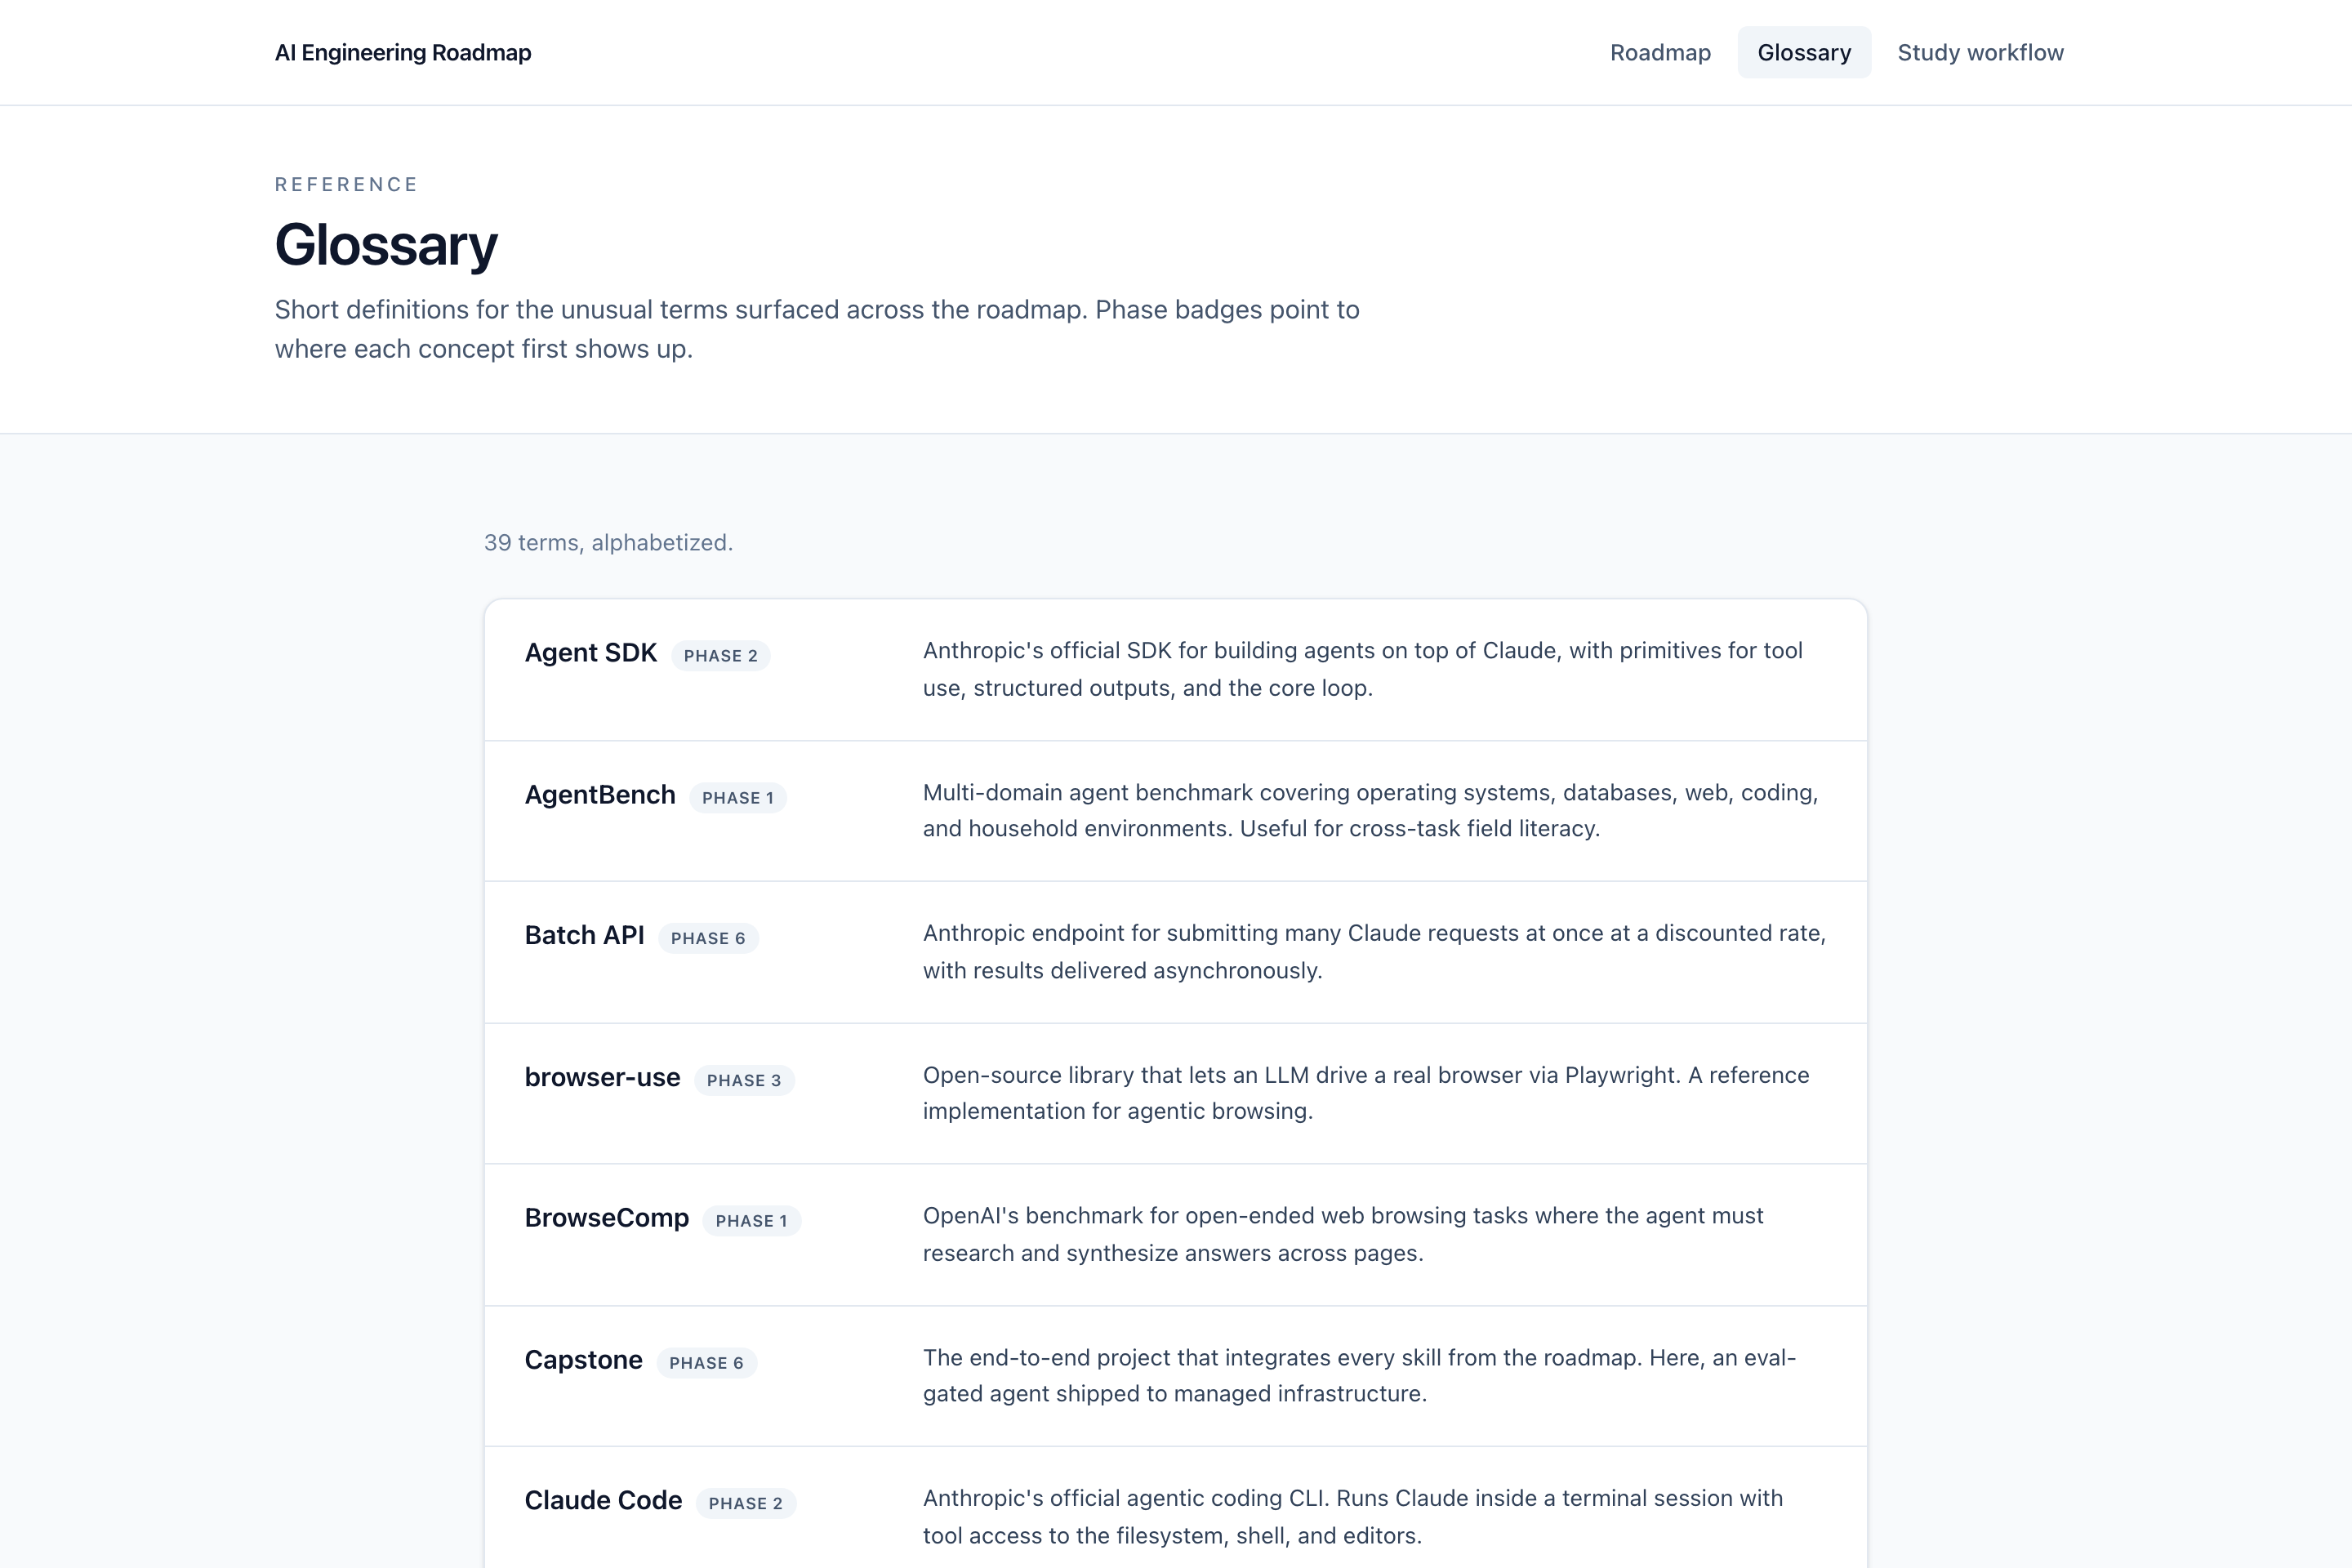
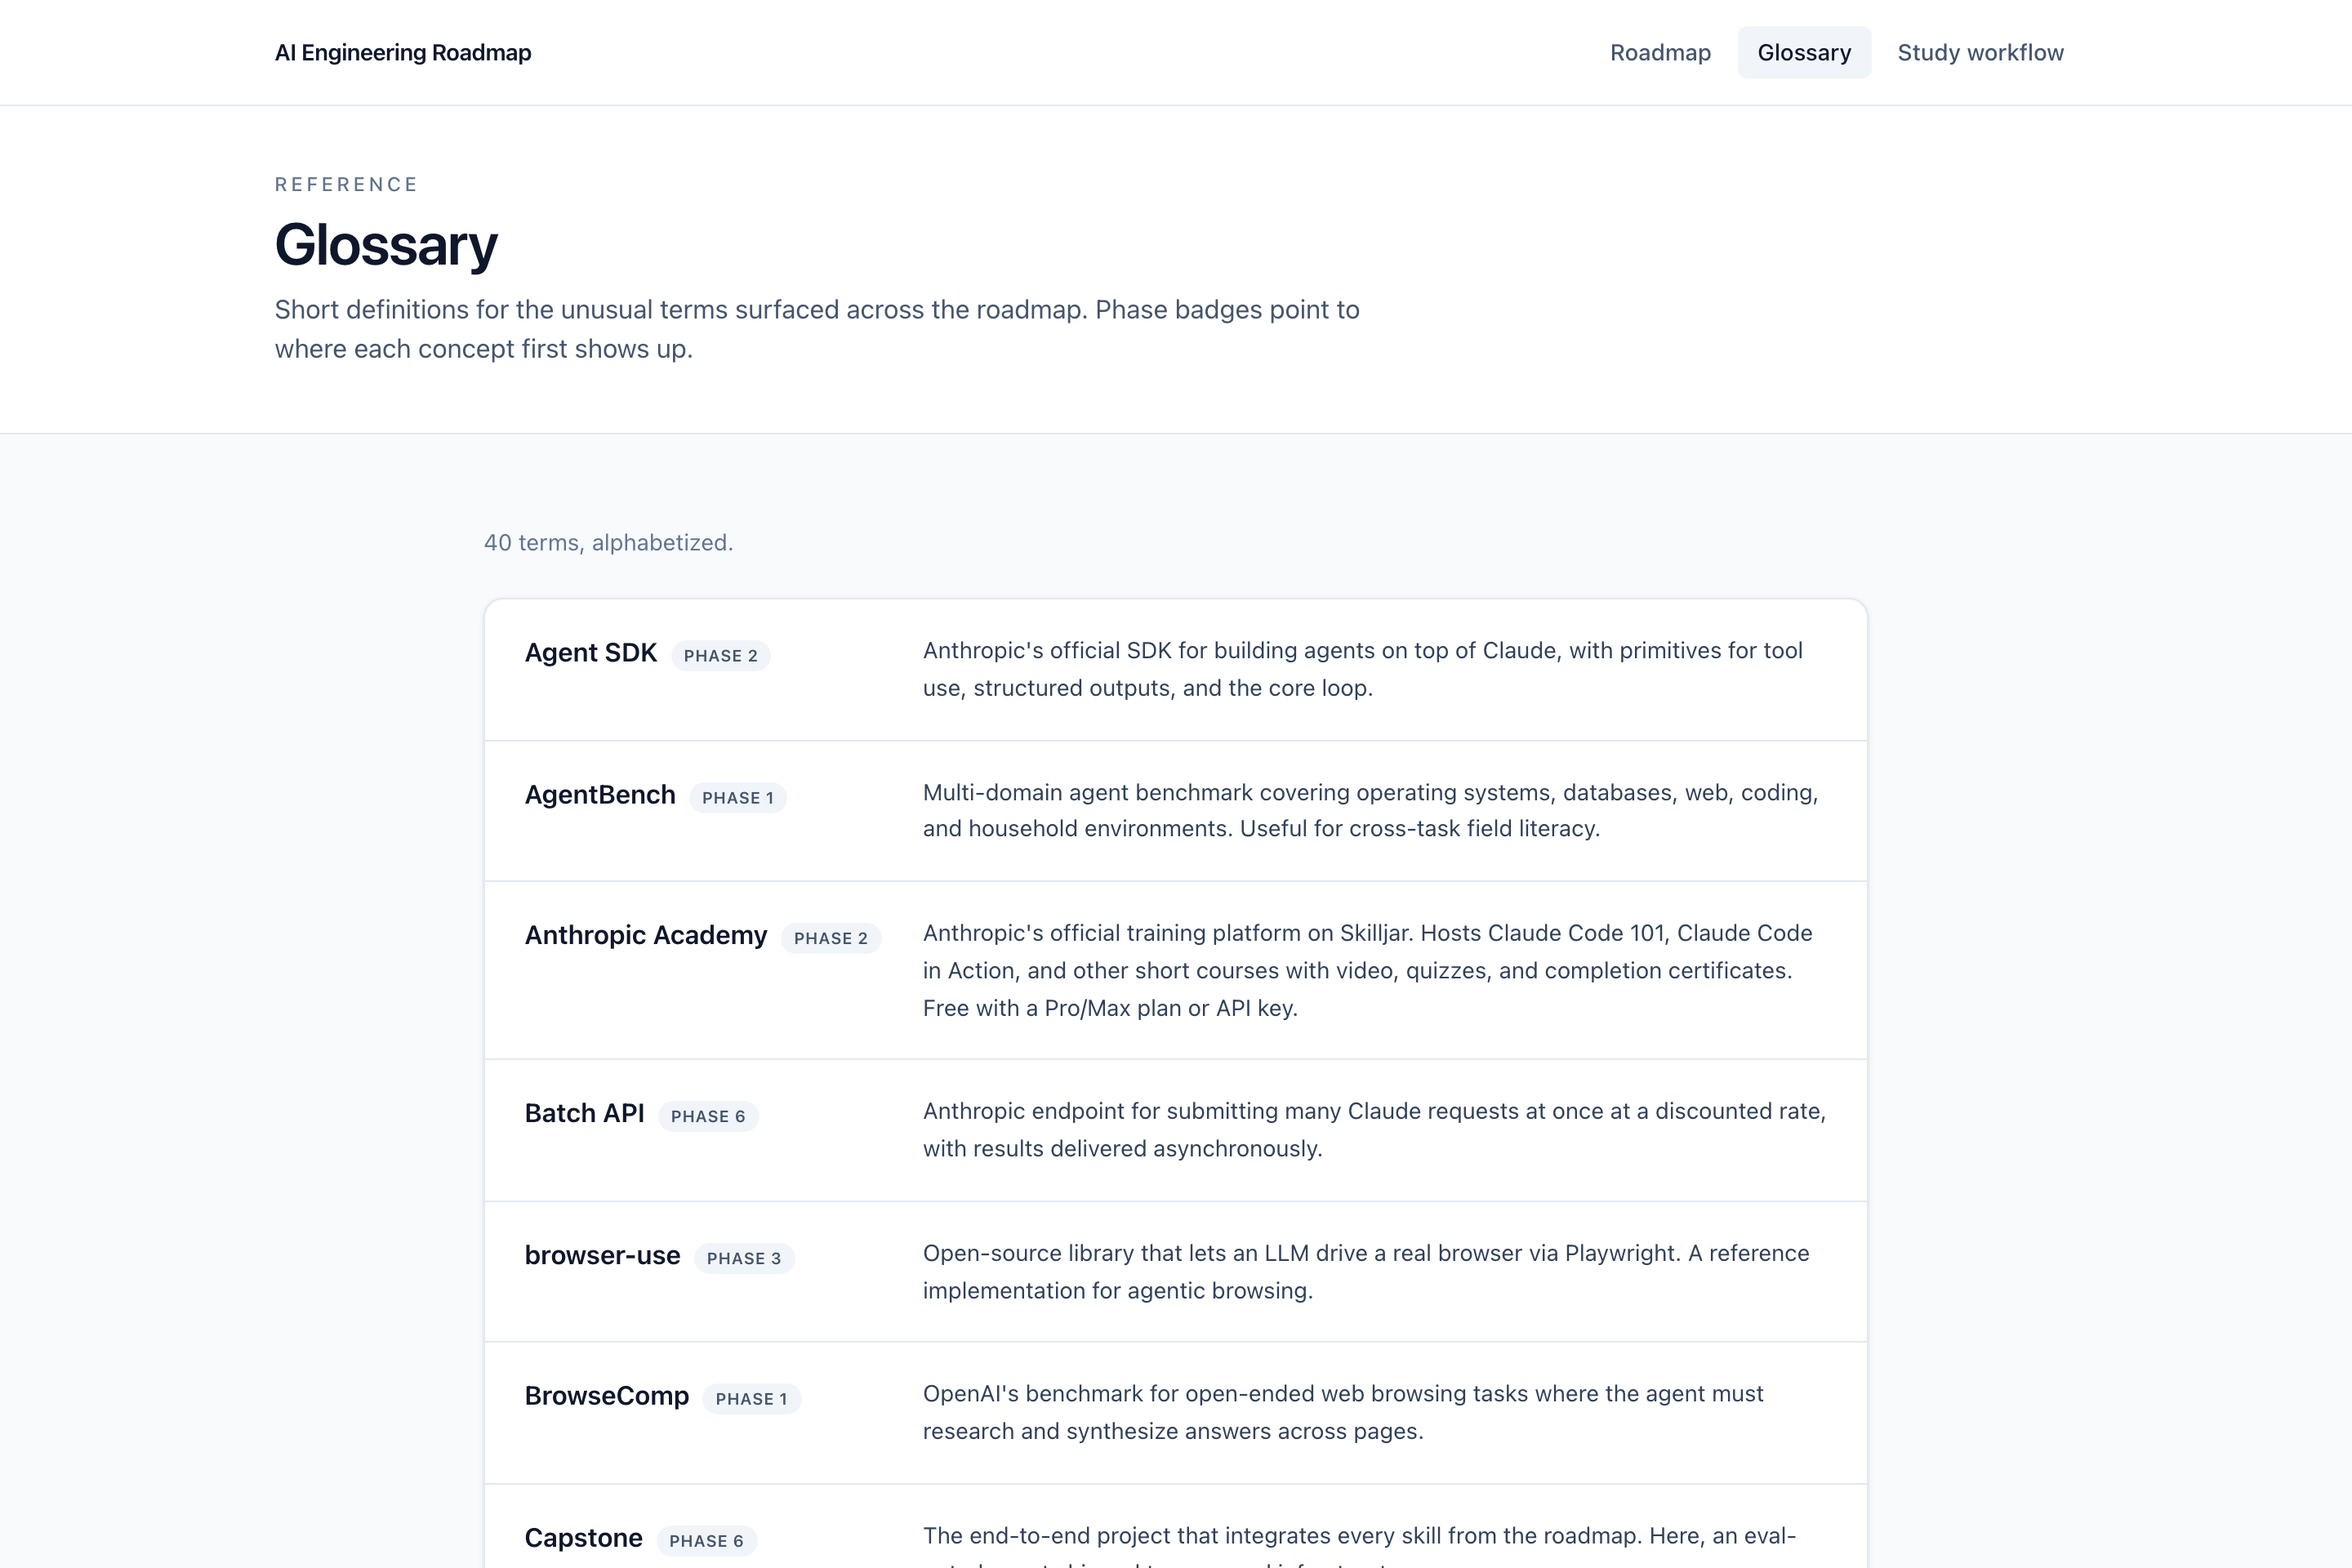
Final audit pass: kill cartographer-era docs, sync screenshots, add Anthropic Academy
- Rewrite CLAUDE.md to describe the actual current state (cards UI,
  hash router, three pages, Tailwind 4) instead of the dead cartographer
  build plan with Remotion cinematics, fog of war, and parchment.
- Delete plans/build-plan.md and the empty plans/ directory.
- Add an Anthropic Academy entry to the glossary (Skilljar, hosts the
  Claude Code 101 and Claude Code in Action courses), bringing the
  glossary to 40 terms.
- Fix Study workflow page: "one markdown file per resource" was stale,
  it is now one folder per resource. cd example switched to the phase
  folder as the typical session root, matching the actual workflow.
- Refresh screenshots so they reflect the post-link-audit titles.

diff --git a/src/pages/StudyWorkflow.tsx b/src/pages/StudyWorkflow.tsx
@@ -34,7 +34,7 @@ export function StudyWorkflowPage() {
               <Tile
                 label="Project 15"
                 title="Study scratchpad"
-                sub="Notes. One markdown file per resource. Lives on your machine."
+                sub="Notes. One folder per resource. Lives on your machine."
               />
             </div>
           </section>
@@ -44,17 +44,18 @@ export function StudyWorkflowPage() {
               Where to open Claude Code sessions
             </h2>
             <p className="mt-3 text-base leading-relaxed text-slate-700">
-              Always open Claude Code from inside the Project 15 directory, not
-              this one. Project 14 is the artifact; Project 15 is the
-              workspace.
+              Always open Claude Code inside Project 15, not Project 14.
+              Project 14 is the tracker; Project 15 is the workspace. The
+              typical entrypoint is the phase folder for whatever you are
+              working on:
             </p>
             <pre className="mt-4 overflow-x-auto rounded-lg bg-slate-900 px-4 py-3 text-sm text-slate-100">
-              <code>cd "Projects/Project 15 - AI Engineering Study/"{"\n"}claude</code>
+              <code>cd "Projects/Project 15 - AI Engineering Study/notes/phase-2-mcp/"{"\n"}claude</code>
             </pre>
             <p className="mt-3 text-base leading-relaxed text-slate-700">
-              That way every session has the study notes as its working
-              directory and Claude can read, edit, and create markdown files
-              alongside whatever code experiment you are running.
+              That way the session has the phase as its working directory and
+              every resource subfolder is one
+              <code className="rounded bg-slate-100 px-1.5 py-0.5 text-[0.9em] text-slate-800"> cd</code> away.
             </p>
           </section>
 

diff --git a/src/data/glossary.ts b/src/data/glossary.ts
@@ -16,6 +16,11 @@ export const glossary: GlossaryEntry[] = [
     def: "Multi-domain agent benchmark covering operating systems, databases, web, coding, and household environments. Useful for cross-task field literacy.",
   },
   {
+    term: "Anthropic Academy",
+    phase: 2,
+    def: "Anthropic's official training platform on Skilljar. Hosts Claude Code 101, Claude Code in Action, and other short courses with video, quizzes, and completion certificates. Free with a Pro/Max plan or API key.",
+  },
+  {
     term: "Batch API",
     phase: 6,
     def: "Anthropic endpoint for submitting many Claude requests at once at a discounted rate, with results delivered asynchronously.",

diff --git a/CLAUDE.md b/CLAUDE.md
@@ -2,68 +2,56 @@
 
 ## What this is
 
-A personal, hosted, interactive learning roadmap visualized as an illustrated cartographer's map. Six phases of curated AI agent engineering material, each phase a region on the map, each resource a checkpoint. Click a checkpoint to mark it complete. Progress persists in localStorage. Cinematic Remotion sequences play at phase completion and at the capstone.
+A personal, hosted study tracker for AI agent engineering. Seven phases of curated resources, rendered as a clean cards UI with a progress bar and checkboxes. Progress persists in localStorage. No backend.
 
-**Brand:** AI Engineering Roadmap. **Repo target:** `github.com/Mihailo2501/ai-agent-roadmap` (or similar). **License:** MIT.
+The site has three pages, navigated via hash routes:
 
-**Distribution:** hosted via GitHub Pages from this repo. This is a personal artifact, not a distributed course. The "no hosting" rule from Project 11 (AI Agent Engineering) does not apply here.
+- **Roadmap** (`#/`): the tracker. Seven phase sections, each a grid of resource cards.
+- **Glossary** (`#/glossary`): alphabetized definitions for the unusual terms surfaced across the roadmap, with a phase badge per term.
+- **Study workflow** (`#/study`): documents how the companion scratchpad (Project 15) is organized and how to name Claude Code sessions while working through resources.
+
+**Repo:** `github.com/Mihailo2501/ai-engineering-roadmap`. **License:** MIT. **Live:** [https://mihailo2501.github.io/ai-engineering-roadmap/](https://mihailo2501.github.io/ai-engineering-roadmap/).
+
+This is a personal artifact, not a distributed course.
 
 ## Locked decisions
 
 Do not re-litigate without explicit ask:
 
-- **Tech stack:** Vite + React 19 + TypeScript + MDX + Tailwind 4 + Framer Motion + Remotion. Same React + MDX skills as Project 11, different visual language.
-- **Design:** cartographer's roadmap. Illustrated parchment map, dark ink line illustration, sepia background, gold accents for completed items, faded red for incomplete. NOT the Clay-inspired aesthetic from Project 11. This artifact is visually distinct from the course on purpose.
-- **Typography:** one display serif for region names (Cinzel or similar old-world cartography flavor), one clean modern serif (Source Serif or Lora) for body and tooltips. Strict two-font rule.
-- **Color palette:** off-white parchment background, ink black for line work, faded red for incomplete checkpoints, bright gold for completed stamps and walked paths, muted teal for water features.
-- **Illustrations:** generated via GPT image 2 through Codex, consistent ink-line style across all six phase regions plus corner marginalia.
-- **Checkpoint tracking:** localStorage per resource, no backend. Same pattern as Project 11 progress strip.
-- **Cinematics:** three Remotion-rendered MP4 sequences. (1) Hero intro reel, ~12 seconds, plays first visit only, skippable. (2) Phase completion ceremony, ~6 seconds, one per phase, plays when all checkpoints in that phase are checked. (3) Capstone reveal, ~30 seconds, plays when all six phases complete. MP4s committed to the repo under `public/cinematics/` and served directly from GitHub Pages (skip Cloudflare R2 for v1, total MP4 payload should stay under 80MB which is well within GitHub's limits).
-- **Audio:** ambient soundtrack plus interaction SFX (quill scratch, wax seal, stamp, page turn). Sourced from Pixabay, Mixkit, Freesound. Off by default, toggleable, preference persisted.
-- **Animations:** ambient (compass wobble, water waves, smoke, breathing pulse on current marker, sea monster blinks), hover (lift + tilt), click-to-check (stamp drop, ink splatter, path draw), phase completion (banner ripple, ink scatter), scroll (parallax + stagger reveal).
-- **Fog of war:** unrevealed phases shrouded in pale drifting fog. Fog lifts dramatically when previous phase completes.
-- **Voyage log:** toggleable sidebar showing journey as quill-and-ink log entries with timestamps and optional reflection notes per checkpoint.
-- **Stretch features:** cursor as quill with ink trail, hidden secret checkpoint somewhere on the map, hi-res PDF export of completed map, LinkedIn share image generator, Konami code fast-travel mode.
+- **Tech stack:** Vite + React 19 + TypeScript + Tailwind 4. No router library — a tiny custom hash router lives in `src/lib/router.ts`. No MDX, Framer Motion, Remotion, or audio. Earlier cartographer-era build is gone.
+- **Design:** clean cards, neutral slate palette, Inter via system stack, emerald accent for completion. No illustrations, no ambient animations, no sound, no parchment.
+- **State:** one localStorage key, `aer:progress:v1`. Just `{ checked: Record<id, { at: number }> }`. Helpers in `src/lib/progress.ts`.
+- **Routing:** hash-based, manual. Three routes: `/`, `/glossary`, `/study`. Section IDs inside the roadmap (e.g. `#home-port`) intentionally fall back to the roadmap page so deep-link anchors still work.
+- **Deploy:** GitHub Actions builds and pushes to GitHub Pages on every push to `main`. Workflow in `.github/workflows/deploy.yml`. `npm run build` runs `tsc -b`, `vite build`, then `node scripts/inline-css.mjs` to inline the entry CSS into `dist/index.html` for one-fewer render-blocking fetch.
+- **Screenshots and verification:** `npm run screenshots` runs `scripts/capture-screenshots.mjs` against a local preview. `npm run verify` runs `scripts/verify-live.mjs` against the deployed URL and asserts zero console errors.
+- **Lighthouse target:** 100/100/100/100 (Performance, Accessibility, Best Practices, SEO). Held on the last several deploys.
 
-## Content: six phases
+## Content
 
-The roadmap content is locked from prior planning. Each phase has a region name and a set of resource checkpoints.
+Seven phases, defined in `src/data/roadmap.ts`. Each `Resource` has `id`, `title`, optional `url`, `source`, `est`, and optional `note`. Resources without a `url` render as "No link" (intentional for course re-reads and the self-directed capstone).
 
-| Phase | Region name | Theme |
+| Phase | Region | Theme |
 |---|---|---|
-| 0 | Home Port | Re-read AI Agent Engineering course end to end (M01-M25) |
-| 1 | The Library | Canon reading (Building Effective Agents, 12-Factor Agents, learnagenticpatterns.com) plus agent benchmarks for field literacy (SWE-bench, GAIA, τ-bench, AgentBench, BrowseComp) |
-| 2 | Harbor of Protocols | MCP, Anthropic primitives, the programmatic surface (Claude Code 101 + Claude Code in Action, Agent SDK, `claude -p`, Claude Code GitHub Actions, third-party Agent SDK apps), and Anthropic Computer Use |
-| 3 | The Workshop | Open source + fine-tuning (HF Agents Course full + bonuses, Karpathy Zero to Hero) plus open-source browser automation (Stagehand, browser-use) and memory architectures beyond RAG (Mem0, GraphRAG, long-term memory patterns) |
-| 4 | Framework Crossroads | Multi-framework (Ed Donner Complete Agentic AI 6 weeks, LangChain Academy LangGraph TS Quickstart) plus multi-agent coordination at production scale (Cognition Devin posts, Anthropic multi-agent orchestration, Hamel's "when not to multi-agent") |
-| 5 | The Observatory | Evals discipline (Hamel corpus, Forest Friends zine, Lenny's Beyond Vibe Checks, Eugene Yan, Arize Recipe Bot, DLAI eval shorts, Anthropic prompt engineering tutorial) |
-| 6 | The Summit | Cloud capstone (Anthropic Managed Agents docs, Inngest, Cloud Run, Railway pgvector, ship the eval-gated agent) plus production cost engineering (prompt caching, batch API, model routing, target cost-per-session) |
+| 0 | Home Port | Re-read the AI Agent Engineering course end to end (M01–M25) |
+| 1 | The Library | Canon reading and agent benchmarks |
+| 2 | Harbor of Protocols | MCP, Anthropic primitives, the programmatic surface |
+| 3 | The Workshop | Open source models, fine-tuning, memory beyond RAG |
+| 4 | Framework Crossroads | Multi-framework fluency and multi-agent coordination |
+| 5 | The Observatory | Evals discipline |
+| 6 | The Summit | Cloud capstone and cost engineering |
 
-Plus an appendix bucket of canonical repos and tools to study, rendered as a separate "library catalogue" section, not on the main map.
+Glossary content lives in `src/data/glossary.ts` and is alphabetized by `term`.
 
 ## Hard rules
 
 - **No em dashes anywhere.** Body prose, code comments, tooltips, titles, alt text. Use commas, colons, semicolons, or split sentences.
-- **Kebab-case file names** throughout.
+- **Kebab-case file names** throughout (folder and file).
 - **No silent failures** in code. Every error logged with full context.
 - **Single responsibility per file.**
 - **Prefer editing existing files** over creating new ones.
-- **Don't add features the task did not request.** Stay scoped to the build plan in `plans/build-plan.md`.
 - **No employment, employer, mentor, or job-search references** in any output (per global CLAUDE.md hard rule).
 
-## Build pattern
-
-This project is being built using Claude Code's `/goal` autonomous mode (shipped May 12, 2026 in Claude Code 2.1.139) as a **single fully-autonomous run**. Mihailo fires one `/goal` covering the entire build. No human-in-the-loop checkpoints. Claude makes all creative decisions (fonts, illustrations, audio, animation timing, Remotion storyboards) using best judgment.
-
-If Mihailo doesn't love a choice after deployment (most likely the audio, possibly an illustration), he requests a revision and it gets swapped. Revision cost is lower than gate cost.
-
-The 10 milestones in `plans/build-plan.md` are internal scaffolding for systematic work, not separate `/goal` invocations.
-
-**Audio selection without hearing:** Claude picks tracks based on Pixabay/Mixkit/Freesound metadata, tags, descriptions, popularity counts, BPM, and license terms. Best guess given the cartographer/medieval/parchment vibe. Mihailo swaps if needed at the end.
-
-**Illustration selection:** Claude generates GPT image 2 outputs via Codex and picks one that fits each region without batching variants for review. If the vibe is off after deployment, regenerate with refined prompts.
-
-## File layout (target)
+## File layout
 
 ```
 /
@@ -72,60 +60,53 @@ The 10 milestones in `plans/build-plan.md` are internal scaffolding for systemat
 ├── LICENSE                     # MIT
 ├── .gitignore
 ├── .github/workflows/deploy.yml
-├── plans/
-│   └── build-plan.md
 ├── package.json
 ├── vite.config.ts
 ├── tsconfig.json
-├── tailwind.config.js
 ├── index.html
 ├── public/
-│   ├── illustrations/          # PNGs per phase region + marginalia
-│   ├── sounds/                 # MP3s for ambient + SFX
-│   └── credits.md              # licensing trace for audio + imagery
+│   ├── favicon.svg
+│   ├── robots.txt
+│   └── screenshots/            # PNGs used in README and verification
+├── scripts/
+│   ├── capture-screenshots.mjs # Playwright, runs against local preview
+│   ├── inline-css.mjs          # post-build, inlines entry CSS
+│   └── verify-live.mjs         # Playwright, asserts no console errors live
 └── src/
-    ├── App.tsx
+    ├── App.tsx                 # router shell
     ├── main.tsx
-    ├── routes.tsx
-    ├── data/
-    │   └── roadmap.ts          # phase + checkpoint manifest
     ├── components/
-    │   ├── cartographer-map.tsx
-    │   ├── checkpoint-icon.tsx
-    │   ├── phase-region.tsx
-    │   ├── voyage-log.tsx
-    │   ├── progress-cartouche.tsx
-    │   ├── compass-needle.tsx
-    │   ├── fog-of-war.tsx
-    │   └── cinematic-player.tsx
-    ├── content/
-    │   └── phases.mdx          # phase prose, resource lists
+    │   ├── SiteHeader.tsx      # brand + three-link nav
+    │   └── PageHero.tsx        # shared eyebrow/title/intro hero
+    ├── data/
+    │   ├── roadmap.ts          # phase + resource manifest
+    │   └── glossary.ts         # alphabetized definitions
     ├── lib/
     │   ├── progress.ts         # localStorage helpers
-    │   ├── audio.ts            # audio toggle + playback
-    │   └── analytics.ts        # optional: track which cinematics played
-    └── remotion/
-        ├── intro-reel.tsx
-        ├── phase-completion.tsx
-        └── capstone-reveal.tsx
+    │   └── router.ts           # tiny hash router
+    ├── pages/
+    │   ├── Roadmap.tsx
+    │   ├── Glossary.tsx
+    │   └── StudyWorkflow.tsx
+    └── styles/
+        └── index.css
 ```
 
 ## Companion project: study scratchpad
 
-Notes, summaries, takeaways, questions, and code experiments for actually working through the roadmap live in **Project 15 — AI Engineering Study** at `/Users/mihailo/Projects/Project 15 - AI Engineering Study/`. That project is the working scratchpad. This project (14) is the visual artifact tracking progress.
+Notes, summaries, takeaways, questions, and code experiments for working through the roadmap live in **Project 15 — AI Engineering Study** at `/Users/mihailo/Projects/Project 15 - AI Engineering Study/`. That project is the working scratchpad. This project (14) is the tracker.
 
-The roadmap site references this via a **Scribe's Tent** element on the map. The tent is a small ink-line illustration positioned near Home Port. Clicking it opens a modal panel explaining the study workflow:
+Project 15's layout:
 
-- Where to open Claude Code sessions (in Project 15)
-- How to name sessions (`/rename p<phase>-<topic-slug>`)
-- Where notes go (one markdown file per resource, in the matching phase folder)
-- That progress checkboxes here (Project 14) and notes there (Project 15) are intentionally separate concerns
+- `notes/phase-<n>-<region>/<resource-slug>/notes.md` for each resource
+- Any extra artifacts (PDFs, code experiments, screenshots, transcripts) live in the same `<resource-slug>/` folder so the scratchpad for one card stays self-contained
+- Session naming: `/rename p<phase>-<topic-slug>`
 
-The Scribe's Tent does not gate any progress, it is purely a help/onboarding element. It uses the same modal-overlay pattern as the voyage log.
+The site's `/#study` page documents the workflow for visitors. Project 15's own `CLAUDE.md` documents the conventions for sessions opened inside it.
 
 ## When in doubt
 
 - Re-read this file before reopening a locked decision
+- The roadmap is a checklist, not a syllabus; cards stay lean
+- Resource cards never carry instructions, because every resource gets its own Claude Code session in Project 15 where navigation questions are answered
 - Ship working slices, not over-engineered abstractions
-- The cartographer metaphor IS the design; do not dilute it with generic UI patterns
-- This is a personal artifact; bias toward delight and polish over enterprise rigor